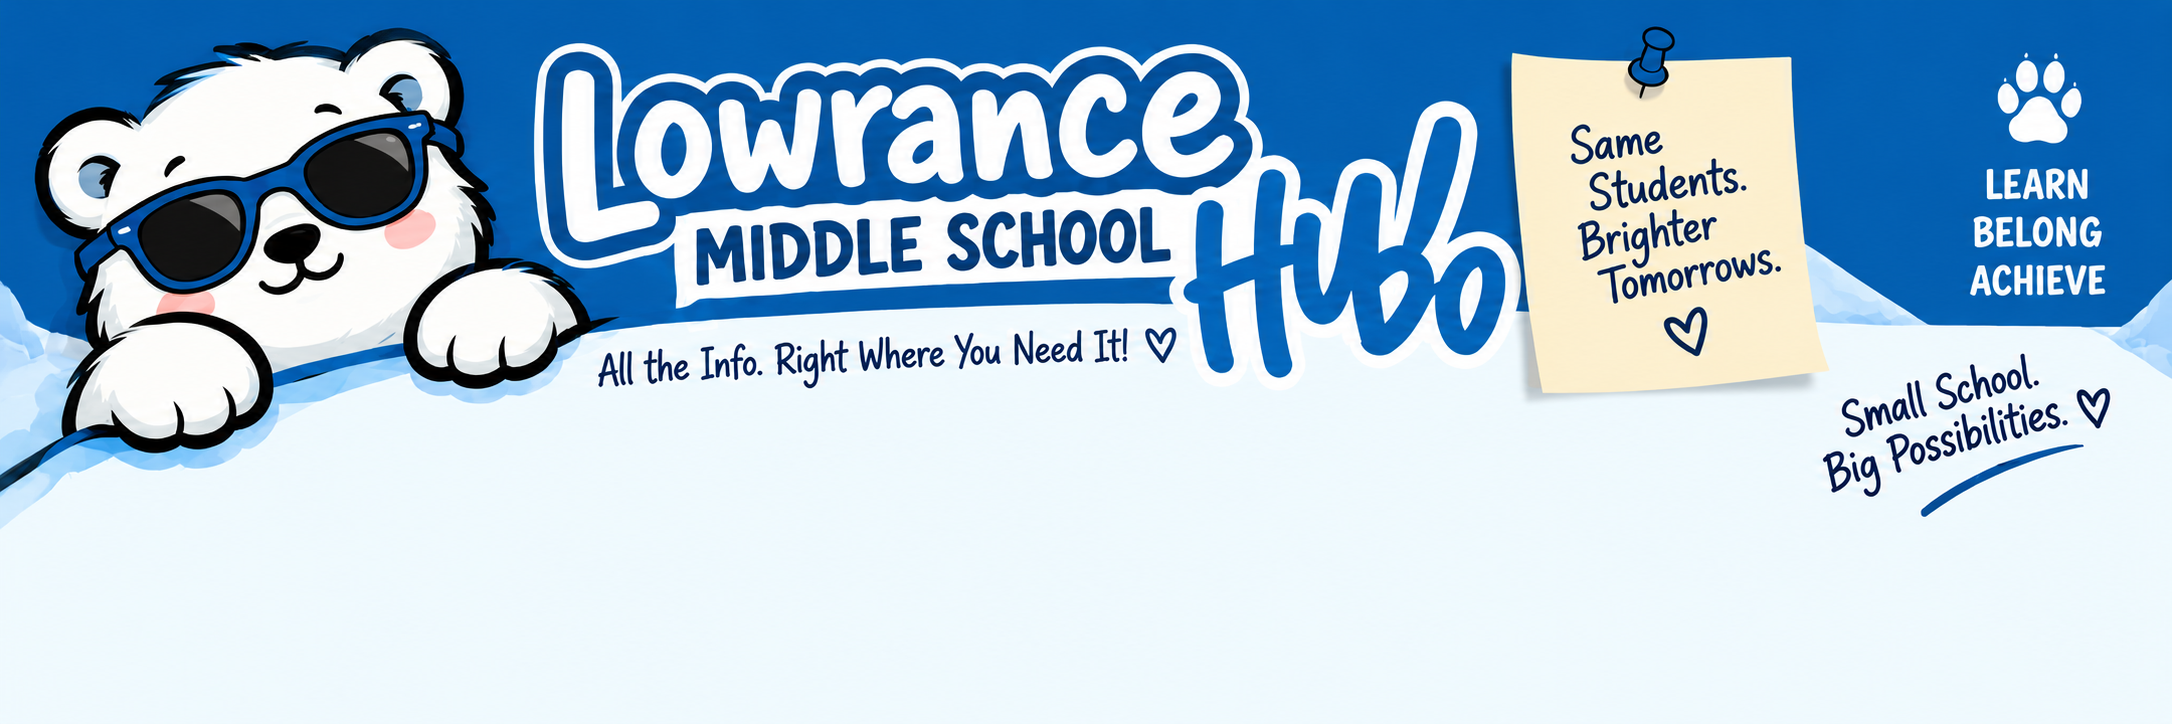
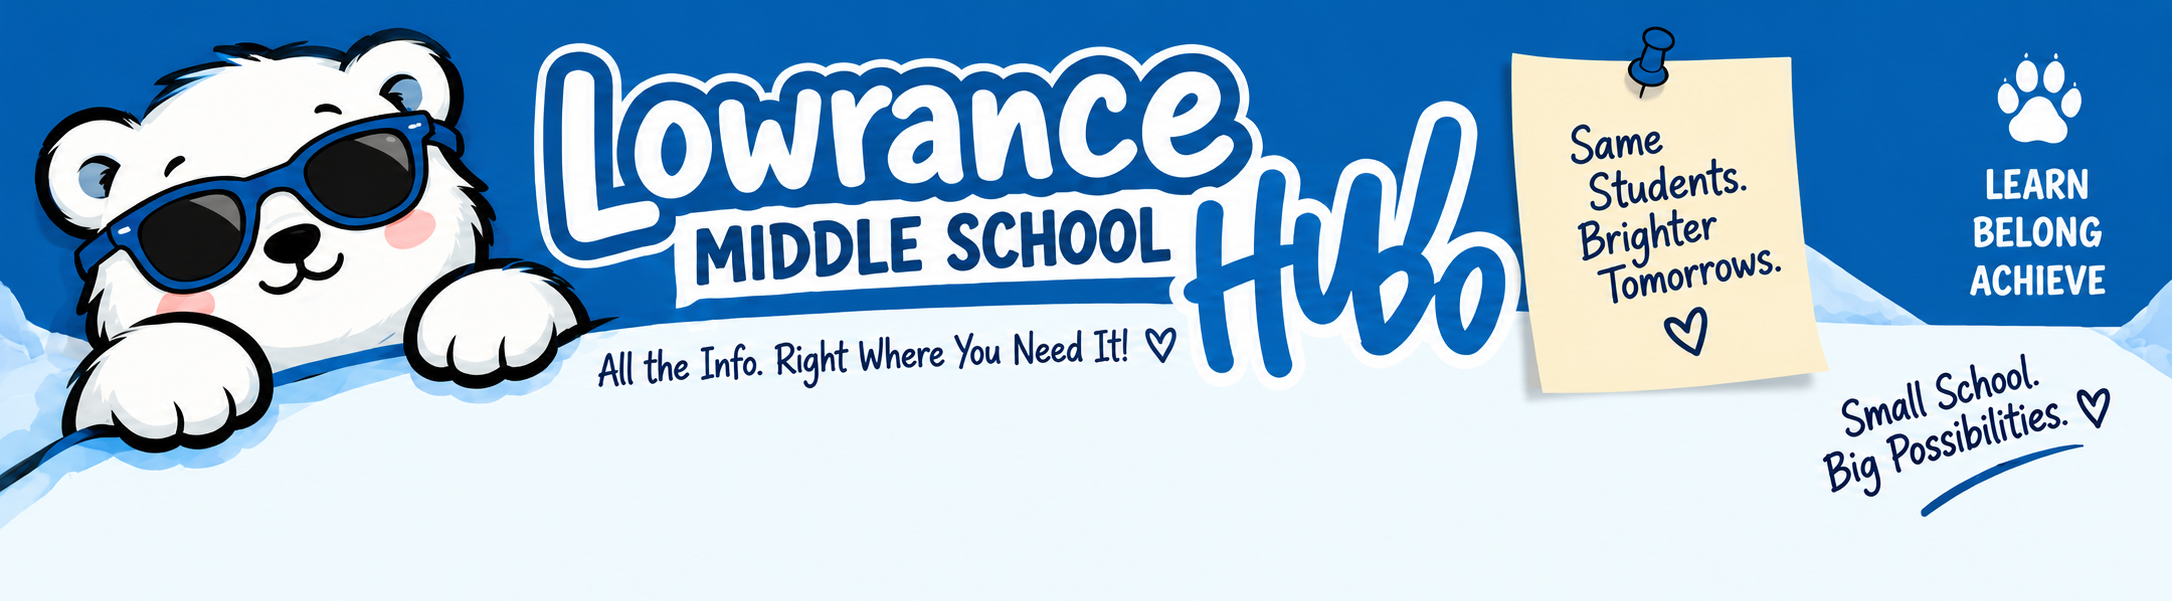
Add files via upload

Changed region(s): [[0.0, 0.03, 1.0, 0.8686], [0.8637, 0.8386, 0.8946, 0.8686]]

diff --git a/src/components/Header.css b/src/components/Header.css
@@ -110,9 +110,9 @@
 .lh-header__artframe {
   position: relative;
   width: 100%;
-  /* Matches the source banner's pixel dimensions so the layout doesn't
+  /* Matches the cropped banner's pixel dimensions so the layout doesn't
      jump while the image loads. */
-  aspect-ratio: 2172 / 724;
+  aspect-ratio: 2172 / 601;
   overflow: hidden;
 }
 
@@ -136,7 +136,7 @@
   position: absolute;
   left: 8%;
   right: 20%;
-  top: 62%;
+  top: 74%;
   max-width: none;
   margin: 0;
 }
